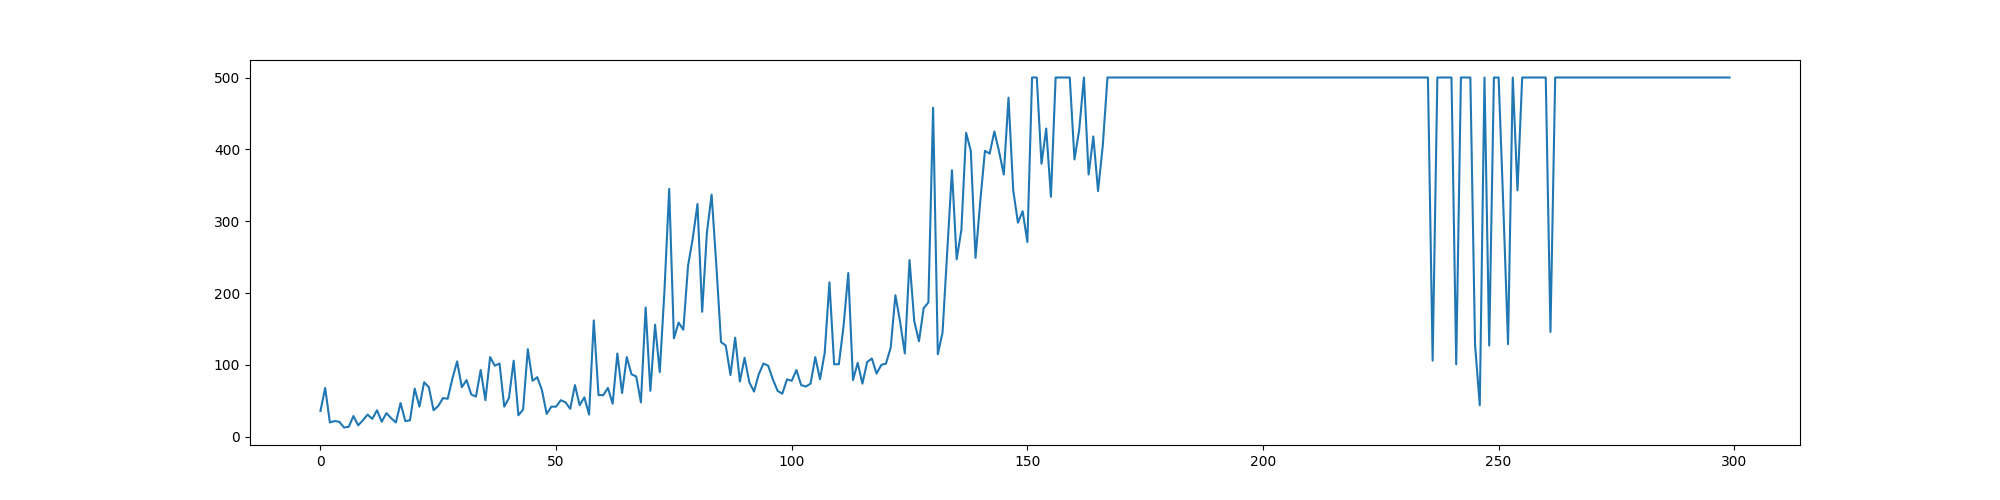
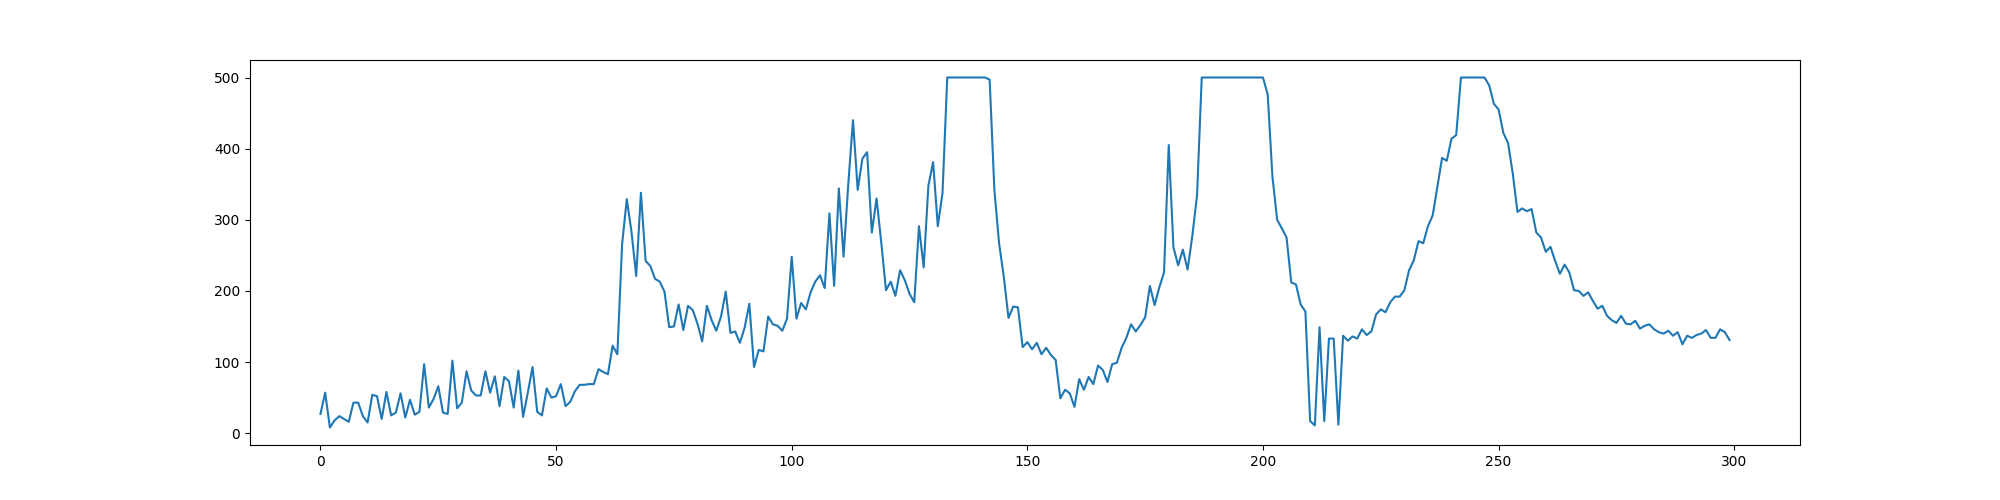
minor update

diff --git a/code/model/ac svrg.py b/code/model/ac svrg.py
@@ -60,9 +60,7 @@ class Value(nn.Module):
 actor = Actor()
 value = Value()
 
-actor_optimizer = optim.Adam(actor.parameters(), lr=3e-2)
-
-# value optimizer?
+# optimizer?
 
 value_pass_grad = [] # previous gradients of value model
 actor_pass_grad = [] # previous gradients of actor model
@@ -122,7 +120,7 @@ def finish_episode():
     latest_steps = []
 
 
-def finish_step(update_time=20, lr=3e-3):
+def finish_step(update_time=5, lr=1e-3):
     '''
     The procedure after a step.
     Now we can sample past episodes and do the corresponding updates.
@@ -184,9 +182,9 @@ def main():
 
     # we first freeze the model to get a 'full batch' of gradients
     # Then we use SVRG to update the model param multiple times
-    for i_step in range(300):
-        for j_episode in range(10):
-            # could change 10 to a decreasing number?
+    for i_step in range(200):
+        for j_episode in range(1):
+            # could change it to a decreasing number?
             state, _ = env.reset()
             ep_reward = 0
 
@@ -201,7 +199,7 @@ def main():
                     break
             ep_rewards.append(ep_reward)
             finish_episode()
-        finish_step()
+        finish_step(1)
 
         if i_step % 10 == 0:
             print('Step {}\tLast reward: {:.2f}'.format(i_step, ep_reward))
